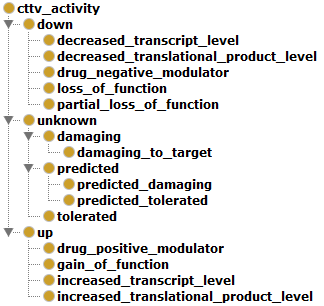
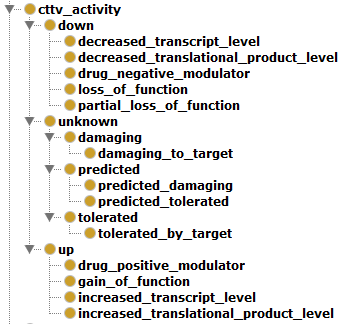
updated ontology

diff --git a/json_schema/cttv_uris_namespaces.md b/json_schema/cttv_uris_namespaces.md
@@ -123,6 +123,8 @@ http://identifiers.org/cttv.activity/unknown
         http://identifiers.org/cttv.activity/predicted_tolerated
 
     http://identifiers.org/cttv.activity/tolerated
+    
+    	http://identifiers.org/cttv.activity/tolerated_by_target
 
 http://identifiers.org/cttv.activity/up
 
